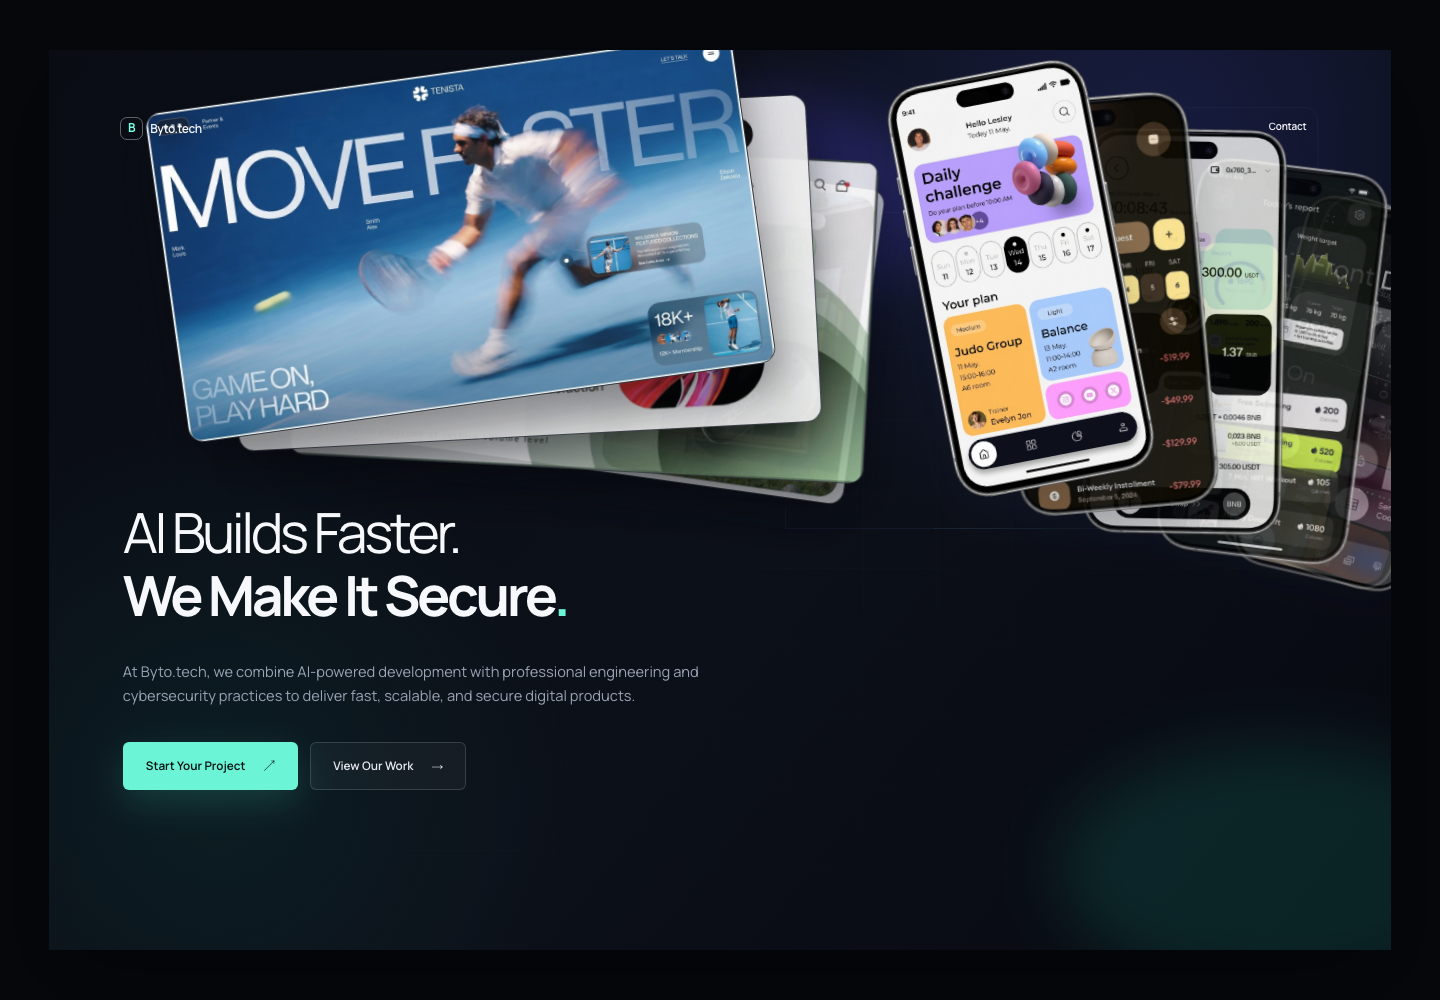
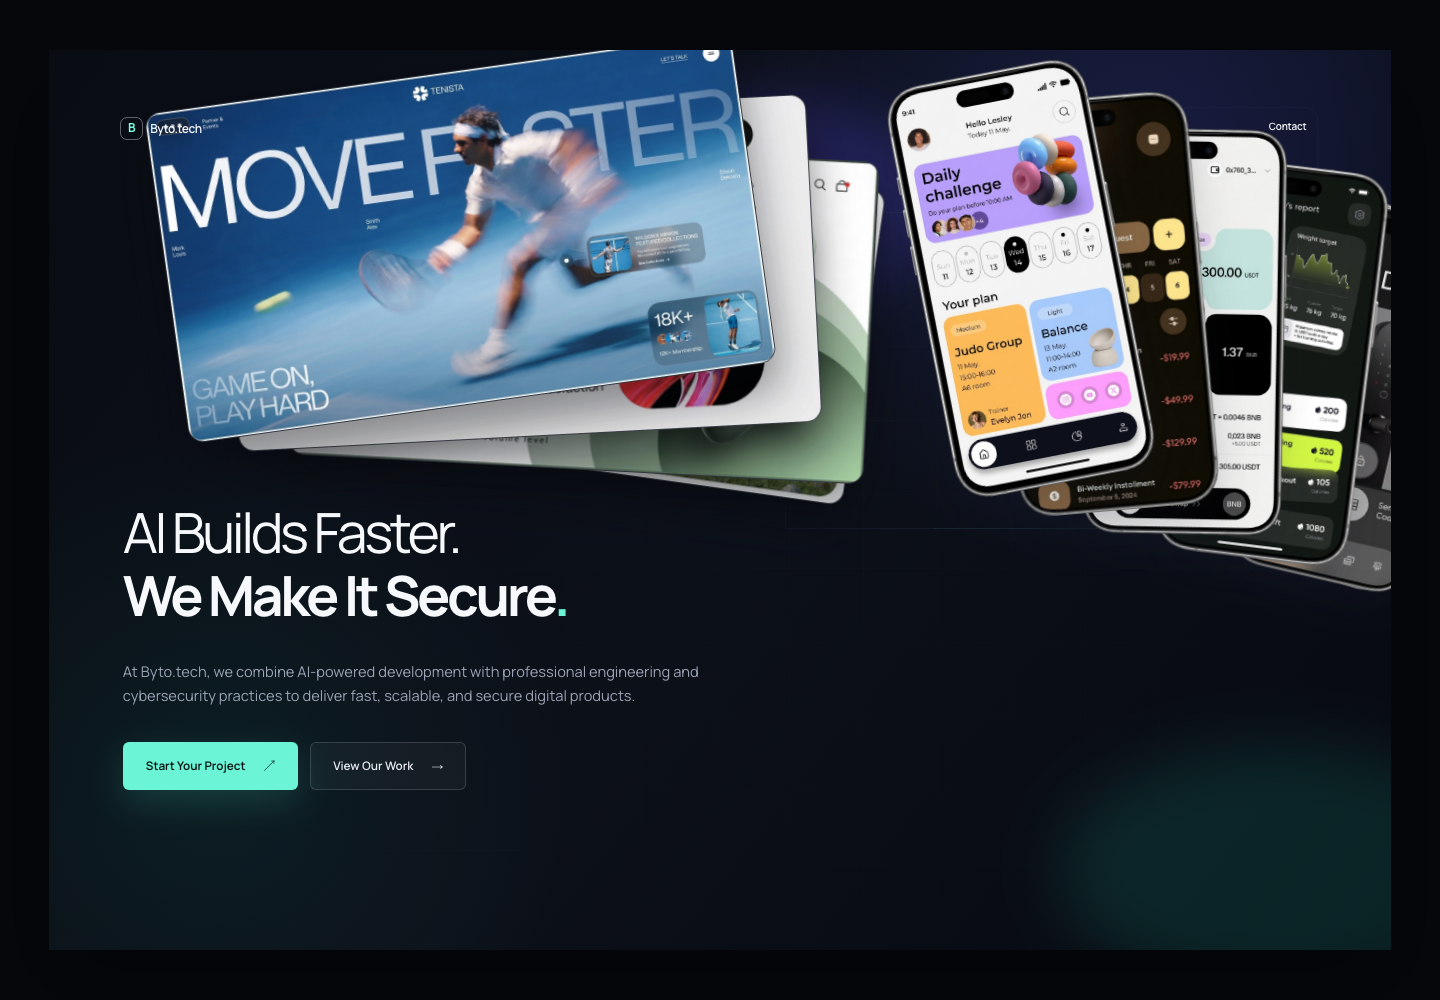
Update styles.css to set opacity to 1 for various elements, enhancing visibility and consistency in the portfolio layout; replace preview.png with a new version for improved UI presentation.

diff --git a/styles.css b/styles.css
@@ -1065,8 +1065,7 @@ h1 {
   transition:
     top 0.95s cubic-bezier(0.22, 1, 0.36, 1),
     left 0.95s cubic-bezier(0.22, 1, 0.36, 1),
-    transform 0.95s cubic-bezier(0.22, 1, 0.36, 1),
-    opacity 0.55s ease;
+    transform 0.95s cubic-bezier(0.22, 1, 0.36, 1);
 }
 
 .portfolio-ready .website-shot:nth-child(1) {
@@ -1081,7 +1080,7 @@ h1 {
   z-index: 3;
   top: 2%;
   left: 5%;
-  opacity: 0.94;
+  opacity: 1;
   transform: rotate(-3deg) scale(0.985);
 }
 
@@ -1089,7 +1088,7 @@ h1 {
   z-index: 2;
   top: 9%;
   left: 10%;
-  opacity: 0.84;
+  opacity: 1;
   transform: rotate(3deg) scale(0.97);
 }
 
@@ -1097,7 +1096,7 @@ h1 {
   z-index: 1;
   top: 16%;
   left: 15%;
-  opacity: 0.7;
+  opacity: 1;
   filter: blur(0) drop-shadow(0 20px 17px rgba(22, 28, 46, 0.14));
   transform: rotate(8deg) scale(0.955);
 }
@@ -1114,7 +1113,7 @@ h1 {
   z-index: 5;
   top: -1%;
   left: 16%;
-  opacity: 0.92;
+  opacity: 1;
   transform: rotate(-5deg) scale(0.975);
 }
 
@@ -1122,7 +1121,7 @@ h1 {
   z-index: 4;
   top: 5%;
   left: 32%;
-  opacity: 0.84;
+  opacity: 1;
   filter: blur(0) drop-shadow(0 20px 17px rgba(22, 28, 46, 0.14));
   transform: rotate(1deg) scale(0.95);
 }
@@ -1131,7 +1130,7 @@ h1 {
   z-index: 3;
   top: 11%;
   left: 48%;
-  opacity: 0.75;
+  opacity: 1;
   transform: rotate(7deg) scale(0.925);
 }
 
@@ -1139,7 +1138,7 @@ h1 {
   z-index: 2;
   top: 17%;
   left: 64%;
-  opacity: 0.64;
+  opacity: 1;
   transform: rotate(13deg) scale(0.9);
 }
 
@@ -1147,21 +1146,21 @@ h1 {
   z-index: 1;
   top: 23%;
   left: 80%;
-  opacity: 0.52;
+  opacity: 1;
   filter: blur(0) drop-shadow(0 16px 14px rgba(22, 28, 46, 0.12));
   transform: rotate(19deg) scale(0.875);
 }
 
 .portfolio-ready .website-shot.is-lifting {
   z-index: 10;
-  opacity: 0.18;
+  opacity: 1;
   filter: blur(0) drop-shadow(0 30px 28px rgba(0, 0, 0, 0.24));
   transform: translate3d(-11%, -13%, 0) rotate(-13deg) scale(0.96);
 }
 
 .portfolio-ready .phone-shot.is-lifting {
   z-index: 10;
-  opacity: 0.18;
+  opacity: 1;
   filter: blur(0) drop-shadow(0 30px 28px rgba(0, 0, 0, 0.24));
   transform: translate3d(13%, -10%, 0) rotate(8deg) scale(0.94);
 }
